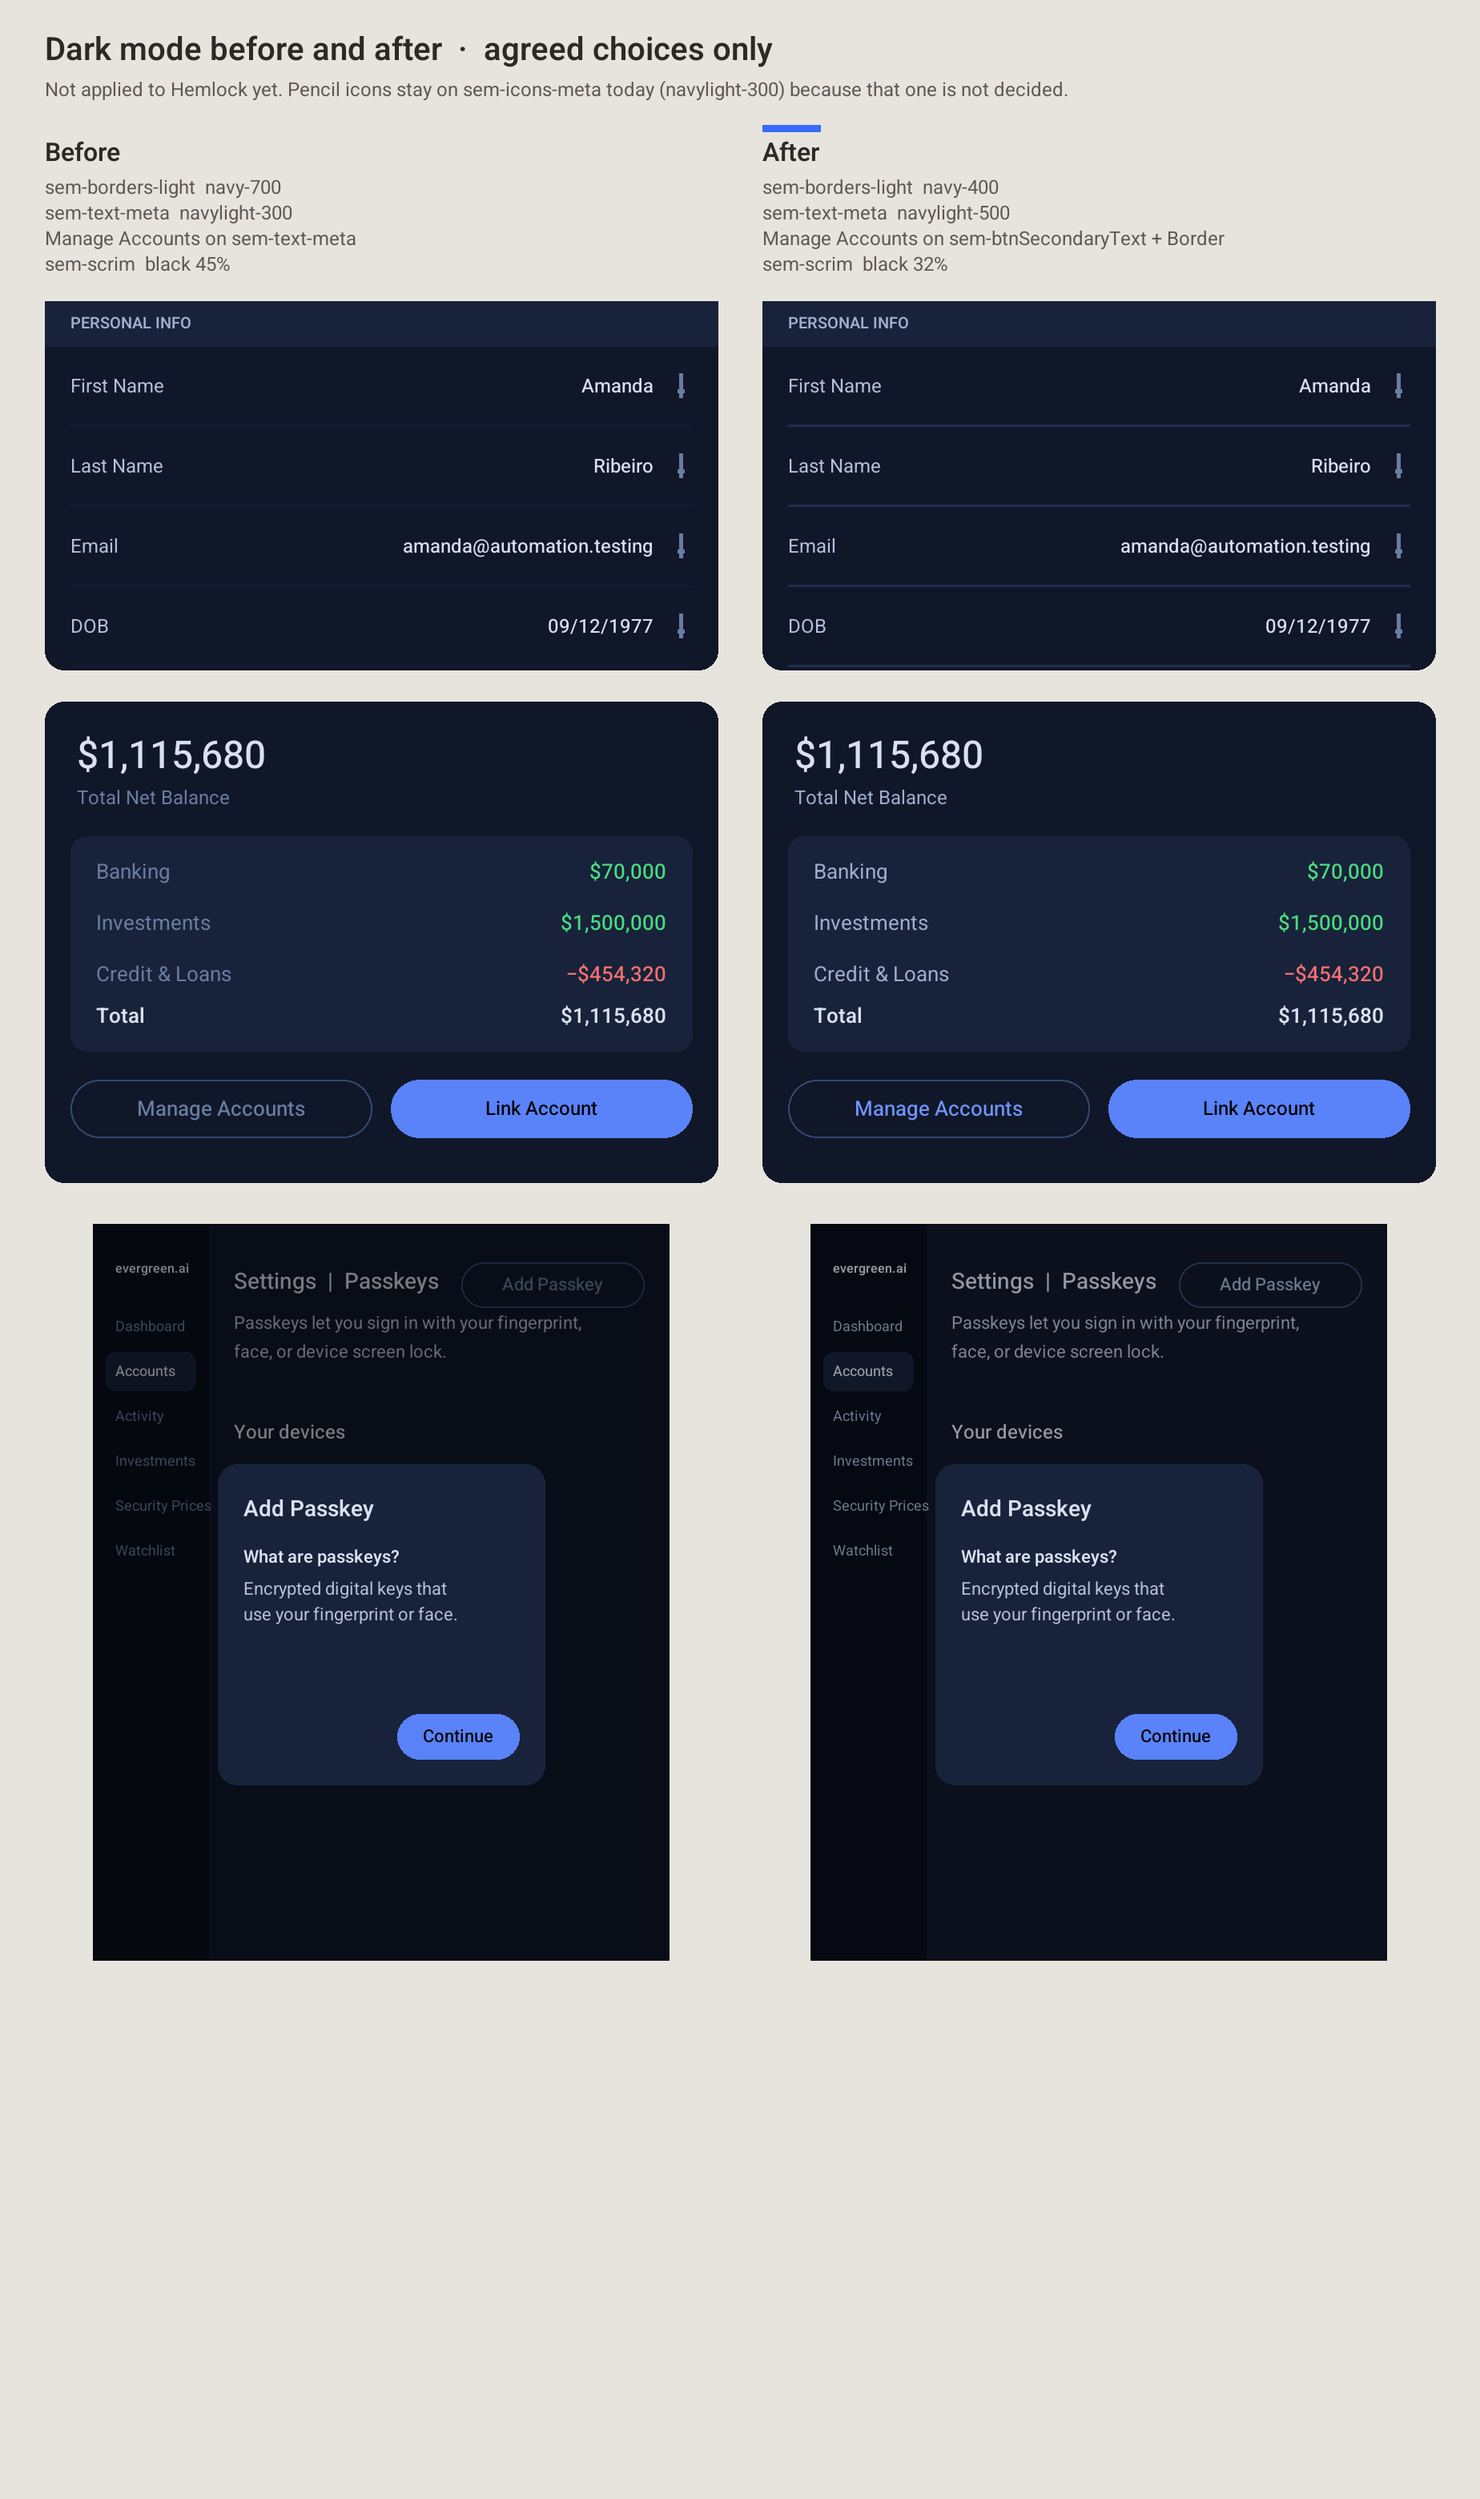
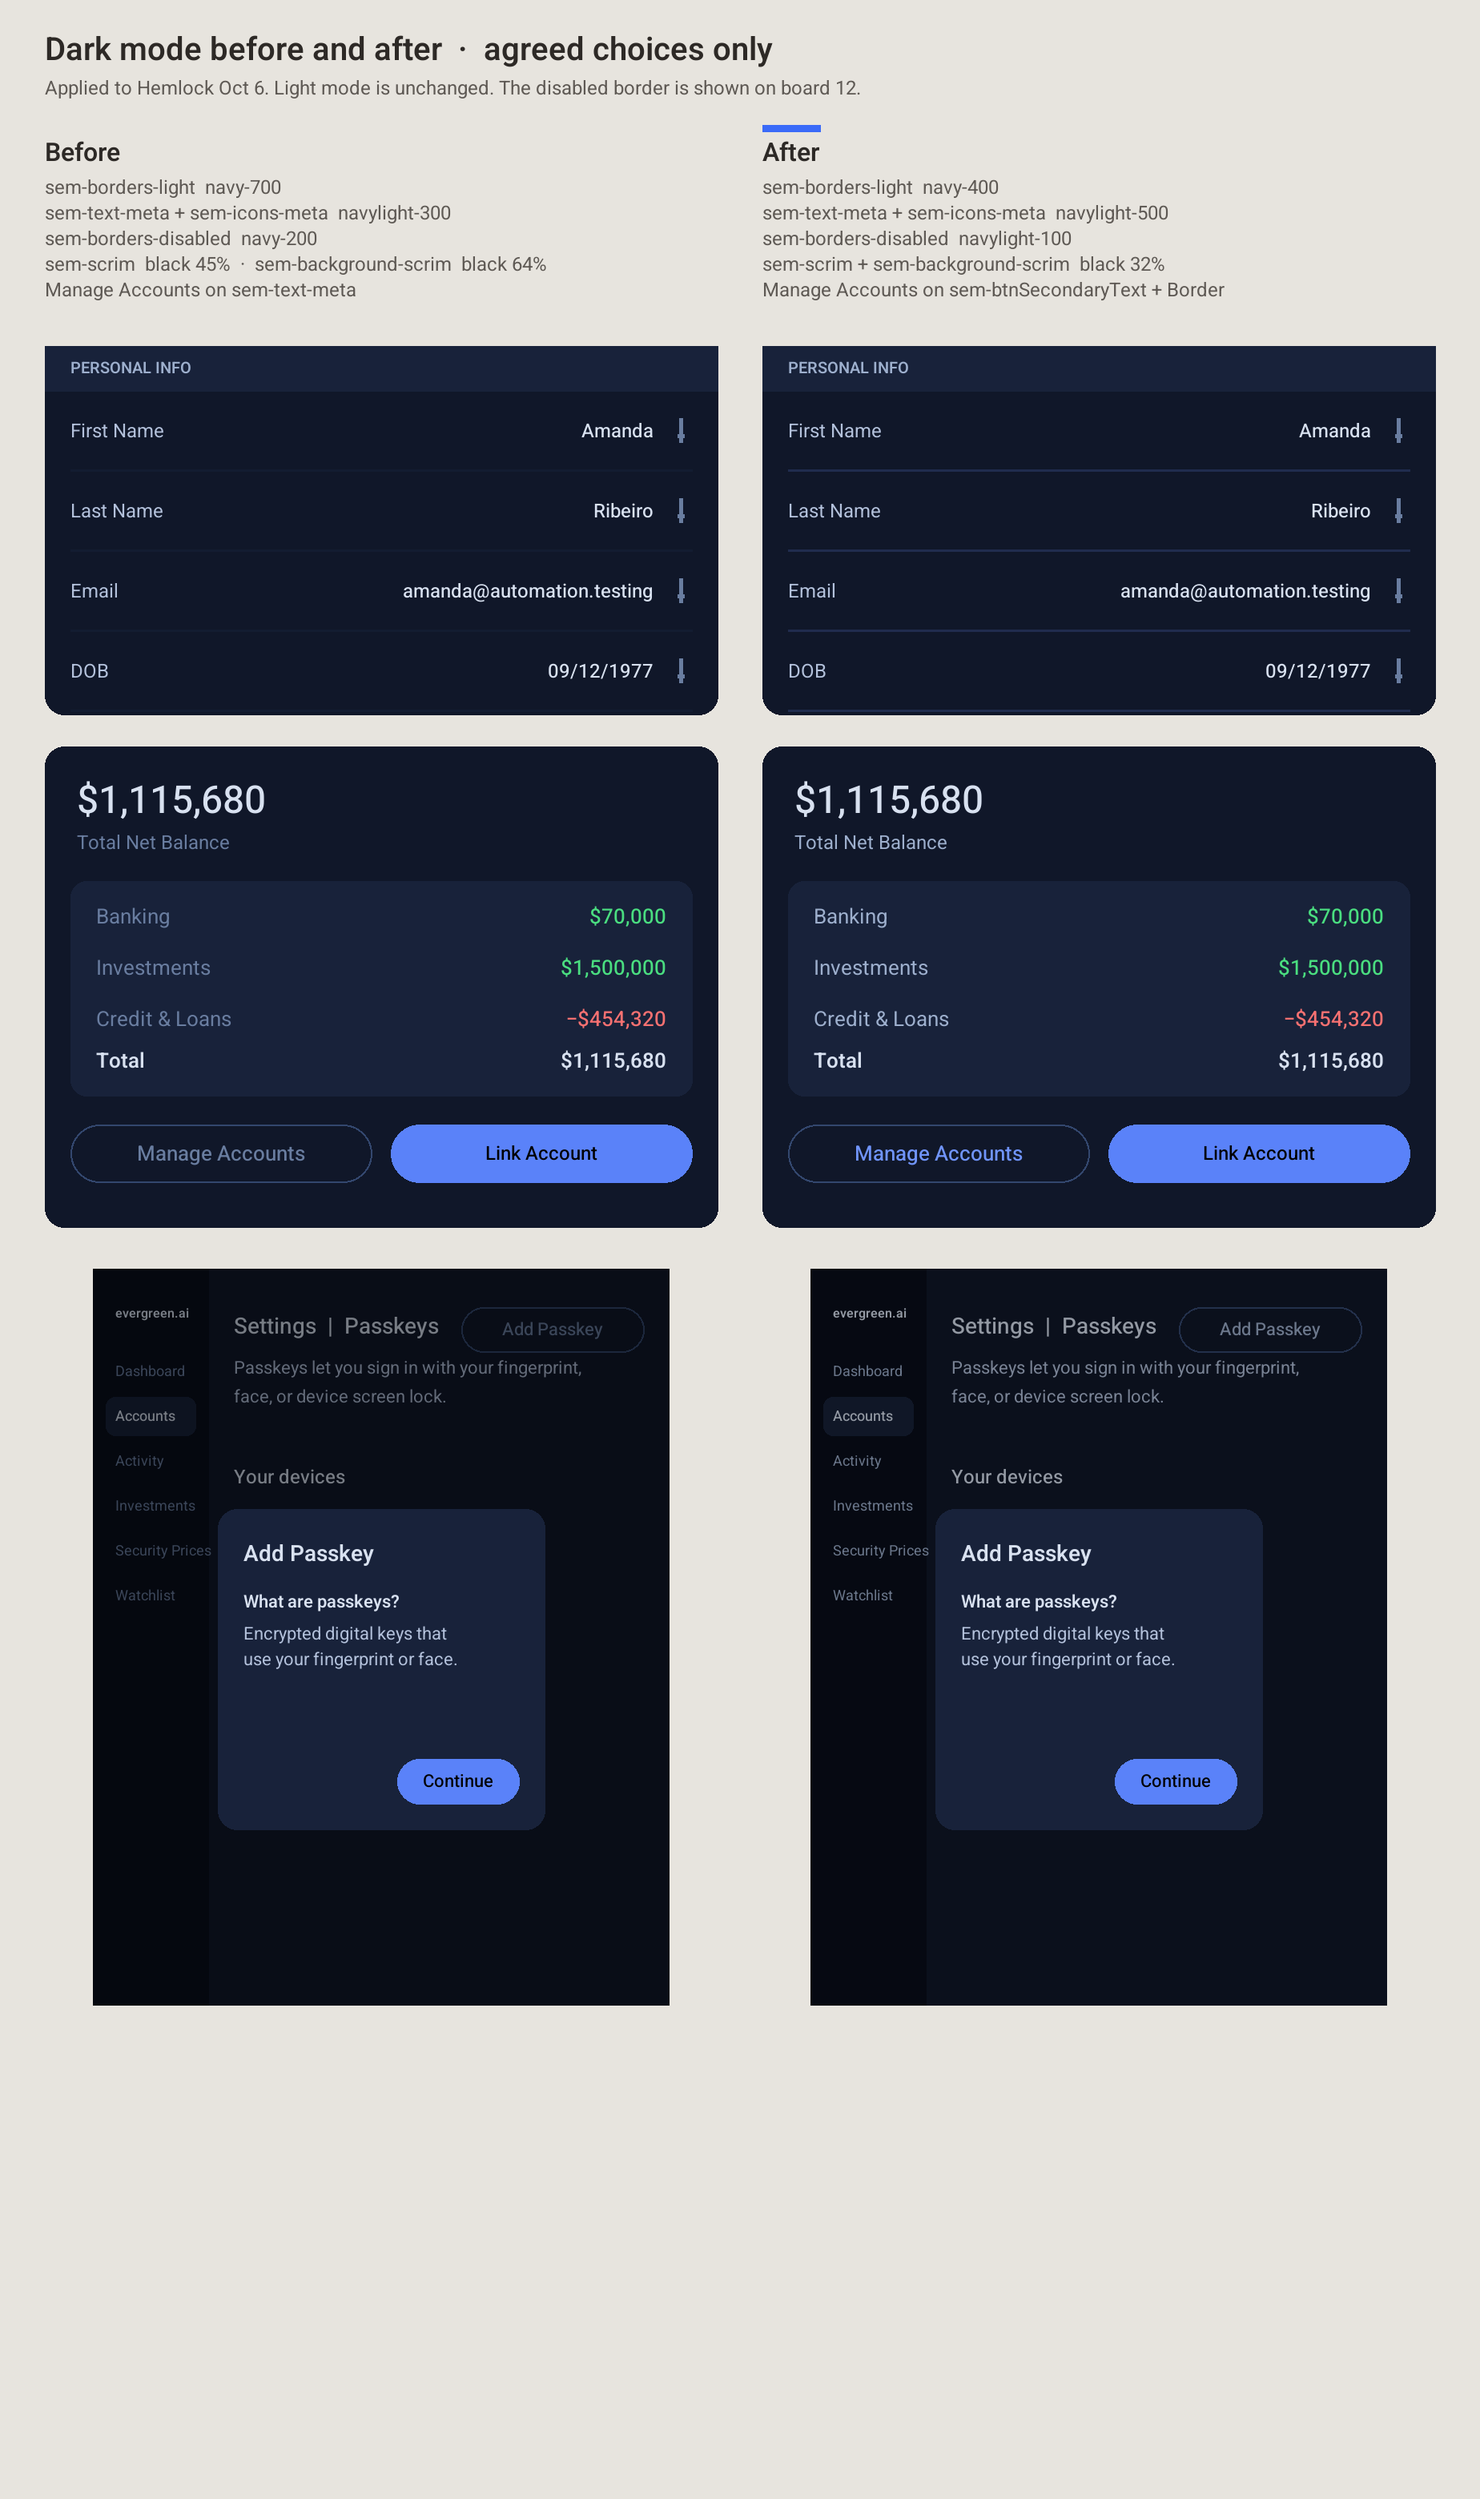
Add delta handoff for the Oct 6 dark-mode token retune
Six-token change list, CSS snippet, tokens JSON and before/after boards for the new FE ticket. Board 10 re-rendered to list all six tokens and drop the 'not applied yet' note.

diff --git a/pencil/design-system/in-progress/dark-mode-retune-2026-10-06/dark-retune.css b/pencil/design-system/in-progress/dark-mode-retune-2026-10-06/dark-retune.css
@@ -1,0 +1,15 @@
+/* ============================================================
+   dark-retune.css — Oct 6, 2026 dark-mode retune (six tokens).
+   Dark only; light values are unchanged. The full canonical set
+   is ../dark-mode-handoff/hemlock.dark.css, which already
+   contains these values.
+   ============================================================ */
+
+html[data-theme="dark"] {
+  --sem-borders-light: var(--prim-navy-400);         /* #202C4E — was navy-700 #131C31 */
+  --sem-text-meta: var(--prim-navylight-500);        /* #9DAFCD — was navylight-300 #697DA0 */
+  --sem-icons-meta: var(--prim-navylight-500);       /* #9DAFCD — was navylight-300 #697DA0 */
+  --sem-borders-disabled: var(--prim-navylight-100); /* #3A485F — was navy-200 #2A3A5C; = sem-text-disabled */
+  --sem-scrim: #00000052;                            /* black 32% — was #00000073 (45%) */
+  --sem-background-scrim: #00000052;                 /* black 32% — was #000000A3 (64%) */
+}

diff --git a/exports/dark-mode-token-studies/render.py b/exports/dark-mode-token-studies/render.py
@@ -810,16 +810,18 @@ def before_after():
     label(
         draw,
         (margin, 50),
-        "Not applied to Hemlock yet. Pencil icons stay on sem-icons-meta today (navylight-300) because that one is not decided.",
+        "Applied to Hemlock Oct 6. Light mode is unchanged. The disabled border is shown on board 12.",
         QUIET,
         12,
         400,
     )
     cols = [
         ("Before", NAVY700, NL300, NL300, NAVY_50, 0x73,
-         ["sem-borders-light  navy-700", "sem-text-meta  navylight-300", "Manage Accounts on sem-text-meta", "sem-scrim  black 45%"]),
+         ["sem-borders-light  navy-700", "sem-text-meta + sem-icons-meta  navylight-300", "sem-borders-disabled  navy-200",
+          "sem-scrim  black 45%  ·  sem-background-scrim  black 64%", "Manage Accounts on sem-text-meta"]),
         ("After", NAVY400, NL500, BLUE_400, NAVY_50, 0x52,
-         ["sem-borders-light  navy-400", "sem-text-meta  navylight-500", "Manage Accounts on sem-btnSecondaryText + Border", "sem-scrim  black 32%"]),
+         ["sem-borders-light  navy-400", "sem-text-meta + sem-icons-meta  navylight-500", "sem-borders-disabled  navylight-100",
+          "sem-scrim + sem-background-scrim  black 32%", "Manage Accounts on sem-btnSecondaryText + Border"]),
     ]
     for i, (title, rule, meta, btn_text, btn_border, alpha, notes) in enumerate(cols):
         x = margin + i * (col_w + gap)
@@ -829,6 +831,7 @@ def before_after():
         label(draw, (x, y), title, INK, 16, 600)
         for n, t in enumerate(notes):
             label(draw, (x, y + 24 + n * 16), t, QUIET, 12, 400)
+        y += 28
         rows_block(draw, x, y + 100, col_w, rule, NL300)
         accounts_block(draw, x, y + 350, col_w, meta, btn_text, btn_border)
         page = draw_page(PAGE, NAVY_950, HEADER, BODY, meta, BLUE, BLACK, NAVY_50)
@@ -928,4 +931,4 @@ def disabled_border():
 
 
 if __name__ == "__main__":
-    disabled_border()
+    before_after()

diff --git a/pencil/design-system/in-progress/dark-mode-retune-2026-10-06/README.md b/pencil/design-system/in-progress/dark-mode-retune-2026-10-06/README.md
@@ -1,0 +1,43 @@
+# Dark-mode token retune — Oct 6, 2026
+
+This folder documents **only** the six dark-mode token changes made to `hemlock-library.lib.pen` on Oct 6, 2026. Light mode is unchanged. No tokens were added, removed, or renamed.
+
+The full canonical set (all 382 tokens, both themes) is still `../dark-mode-handoff/` — it already includes these six changes (design-specs commit `ed4bf97`). Use this folder to see what changed; use the canonical folder as the source for the complete values.
+
+Files:
+
+- **dark-retune.css** — the six new dark declarations, scoped to `html[data-theme="dark"]`.
+- **dark-retune.tokens.json** — the six tokens with their light value (unchanged), old dark value, and new dark value.
+- **10-before-after.png** — dark mode before and after: row borders, meta text, the Manage Accounts button, and the dialog scrim.
+- **12-disabled-border-matches-text.png** — the disabled input border now matches the disabled label and value.
+
+## What changed (dark only)
+
+| Token | Dark (new) | Dark (was) | Why |
+|---|---|---|---|
+| `sem-borders-light` | `#202C4E` navy-400 | `#131C31` navy-700 | Row and table hairlines were invisible on `sem-background-main` and identical to `sem-background-surface` |
+| `sem-text-meta` | `#9DAFCD` navylight-500 | `#697DA0` navylight-300 | Quiet labels (Total Net Balance, Banking, Investments, chart axes) read as disabled |
+| `sem-icons-meta` | `#9DAFCD` navylight-500 | `#697DA0` navylight-300 | Stays matched with `sem-text-meta` |
+| `sem-borders-disabled` | `#3A485F` navylight-100 | `#2A3A5C` navy-200 | Matches `sem-text-disabled`, so a disabled field's border, label, and value are one color (light already does this with gray-300) |
+| `sem-scrim` | `#00000052` black 32% | `#00000073` black 45% | The page behind dialogs went nearly black |
+| `sem-background-scrim` | `#00000052` black 32% | `#000000A3` black 64% | Same film as `sem-scrim` in dark |
+
+## Rules that come with this change
+
+- **Secondary and outline buttons** (for example, Manage Accounts) bind text to `sem-btnSecondaryText` and the stroke to `sem-btnSecondaryBorder` in both themes — never `sem-text-meta` or a primitive. Those two tokens did not change (dark: blue-400 `#7094FB` text, navy-50 `#33476E` border).
+- **Disabled is one color in dark**: `sem-borders-disabled` = `sem-text-disabled` = navylight-100 `#3A485F`.
+- **Both scrims are black 32% in dark.** In light they still differ (`sem-scrim` `#00000055`, `sem-background-scrim` `#2D292657`) — unchanged.
+
+![Before and after](10-before-after.png)
+
+![Disabled border matches disabled text](12-disabled-border-matches-text.png)
+
+## Left alone on purpose
+
+- `sem-borders-muted` (dark navy-200) and `sem-chatDivider` (dark navy-700) — not changed.
+- `sem-borders-dark` (enabled input border, dark navy-300) — not changed.
+- `sem-btnSecondaryText` / `sem-btnSecondaryBorder` — not changed; only the binding rule above.
+
+## Deferred (not part of this change)
+
+- **Pencil edit icons** in Settings are clickable, so they should eventually use the action icon color (`sem-icons-action`) instead of `sem-icons-meta`. Deprioritized — do not change them with this ticket.
